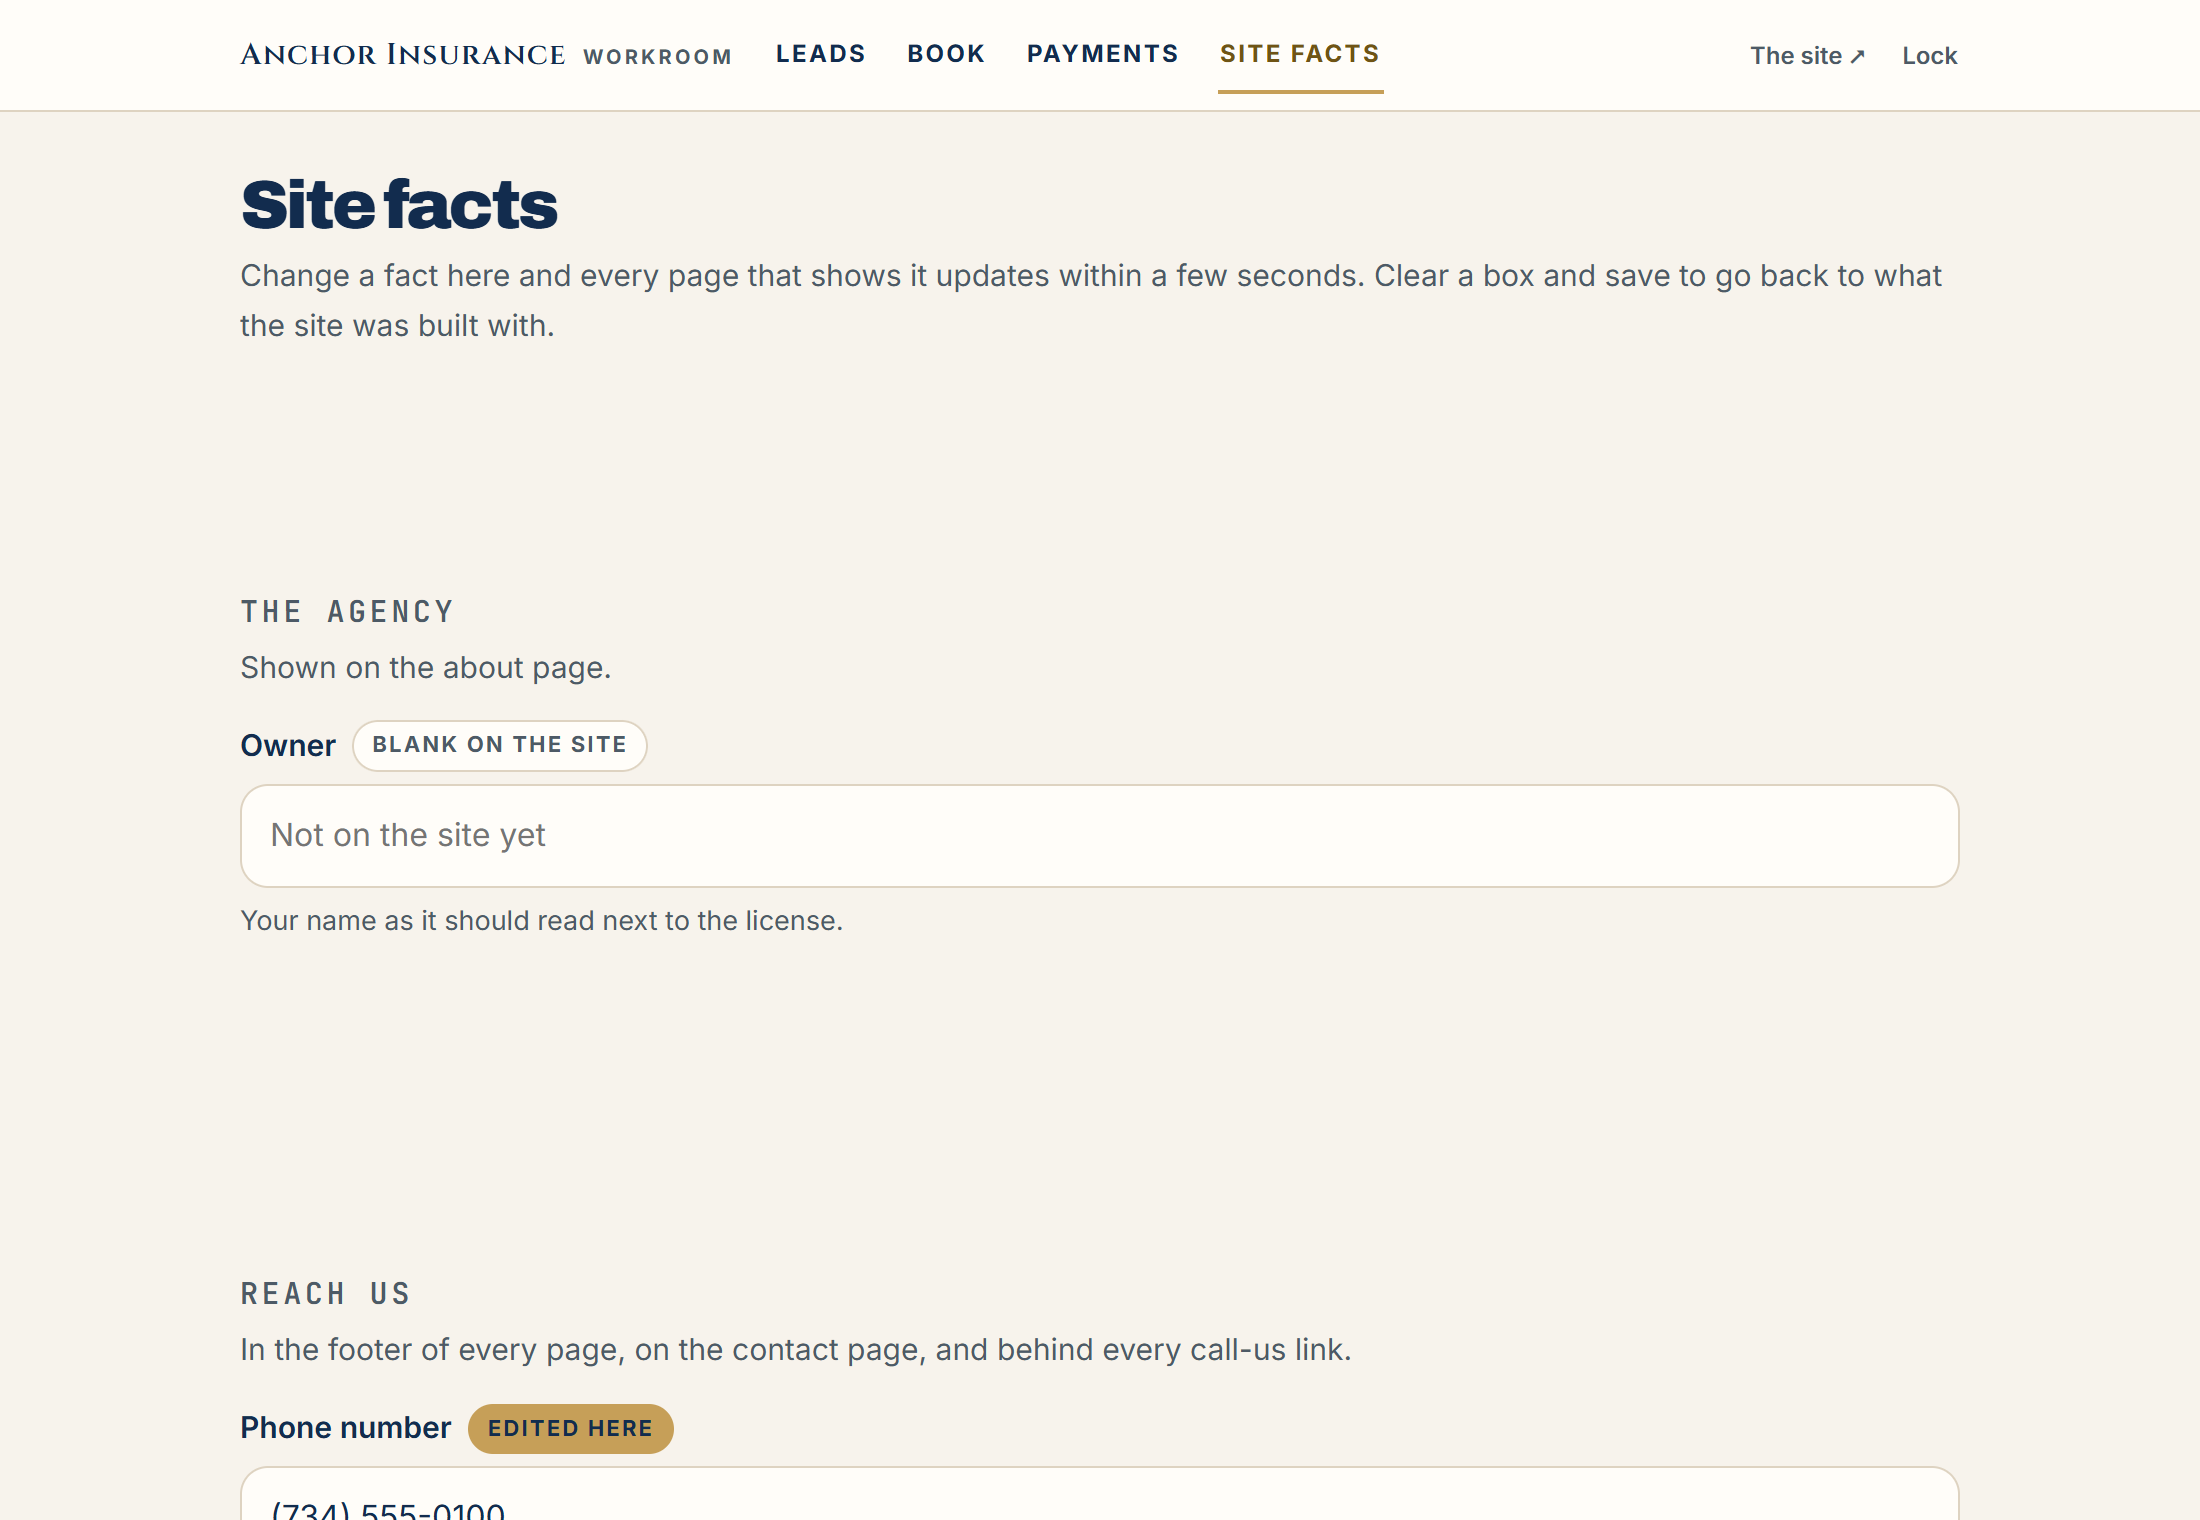
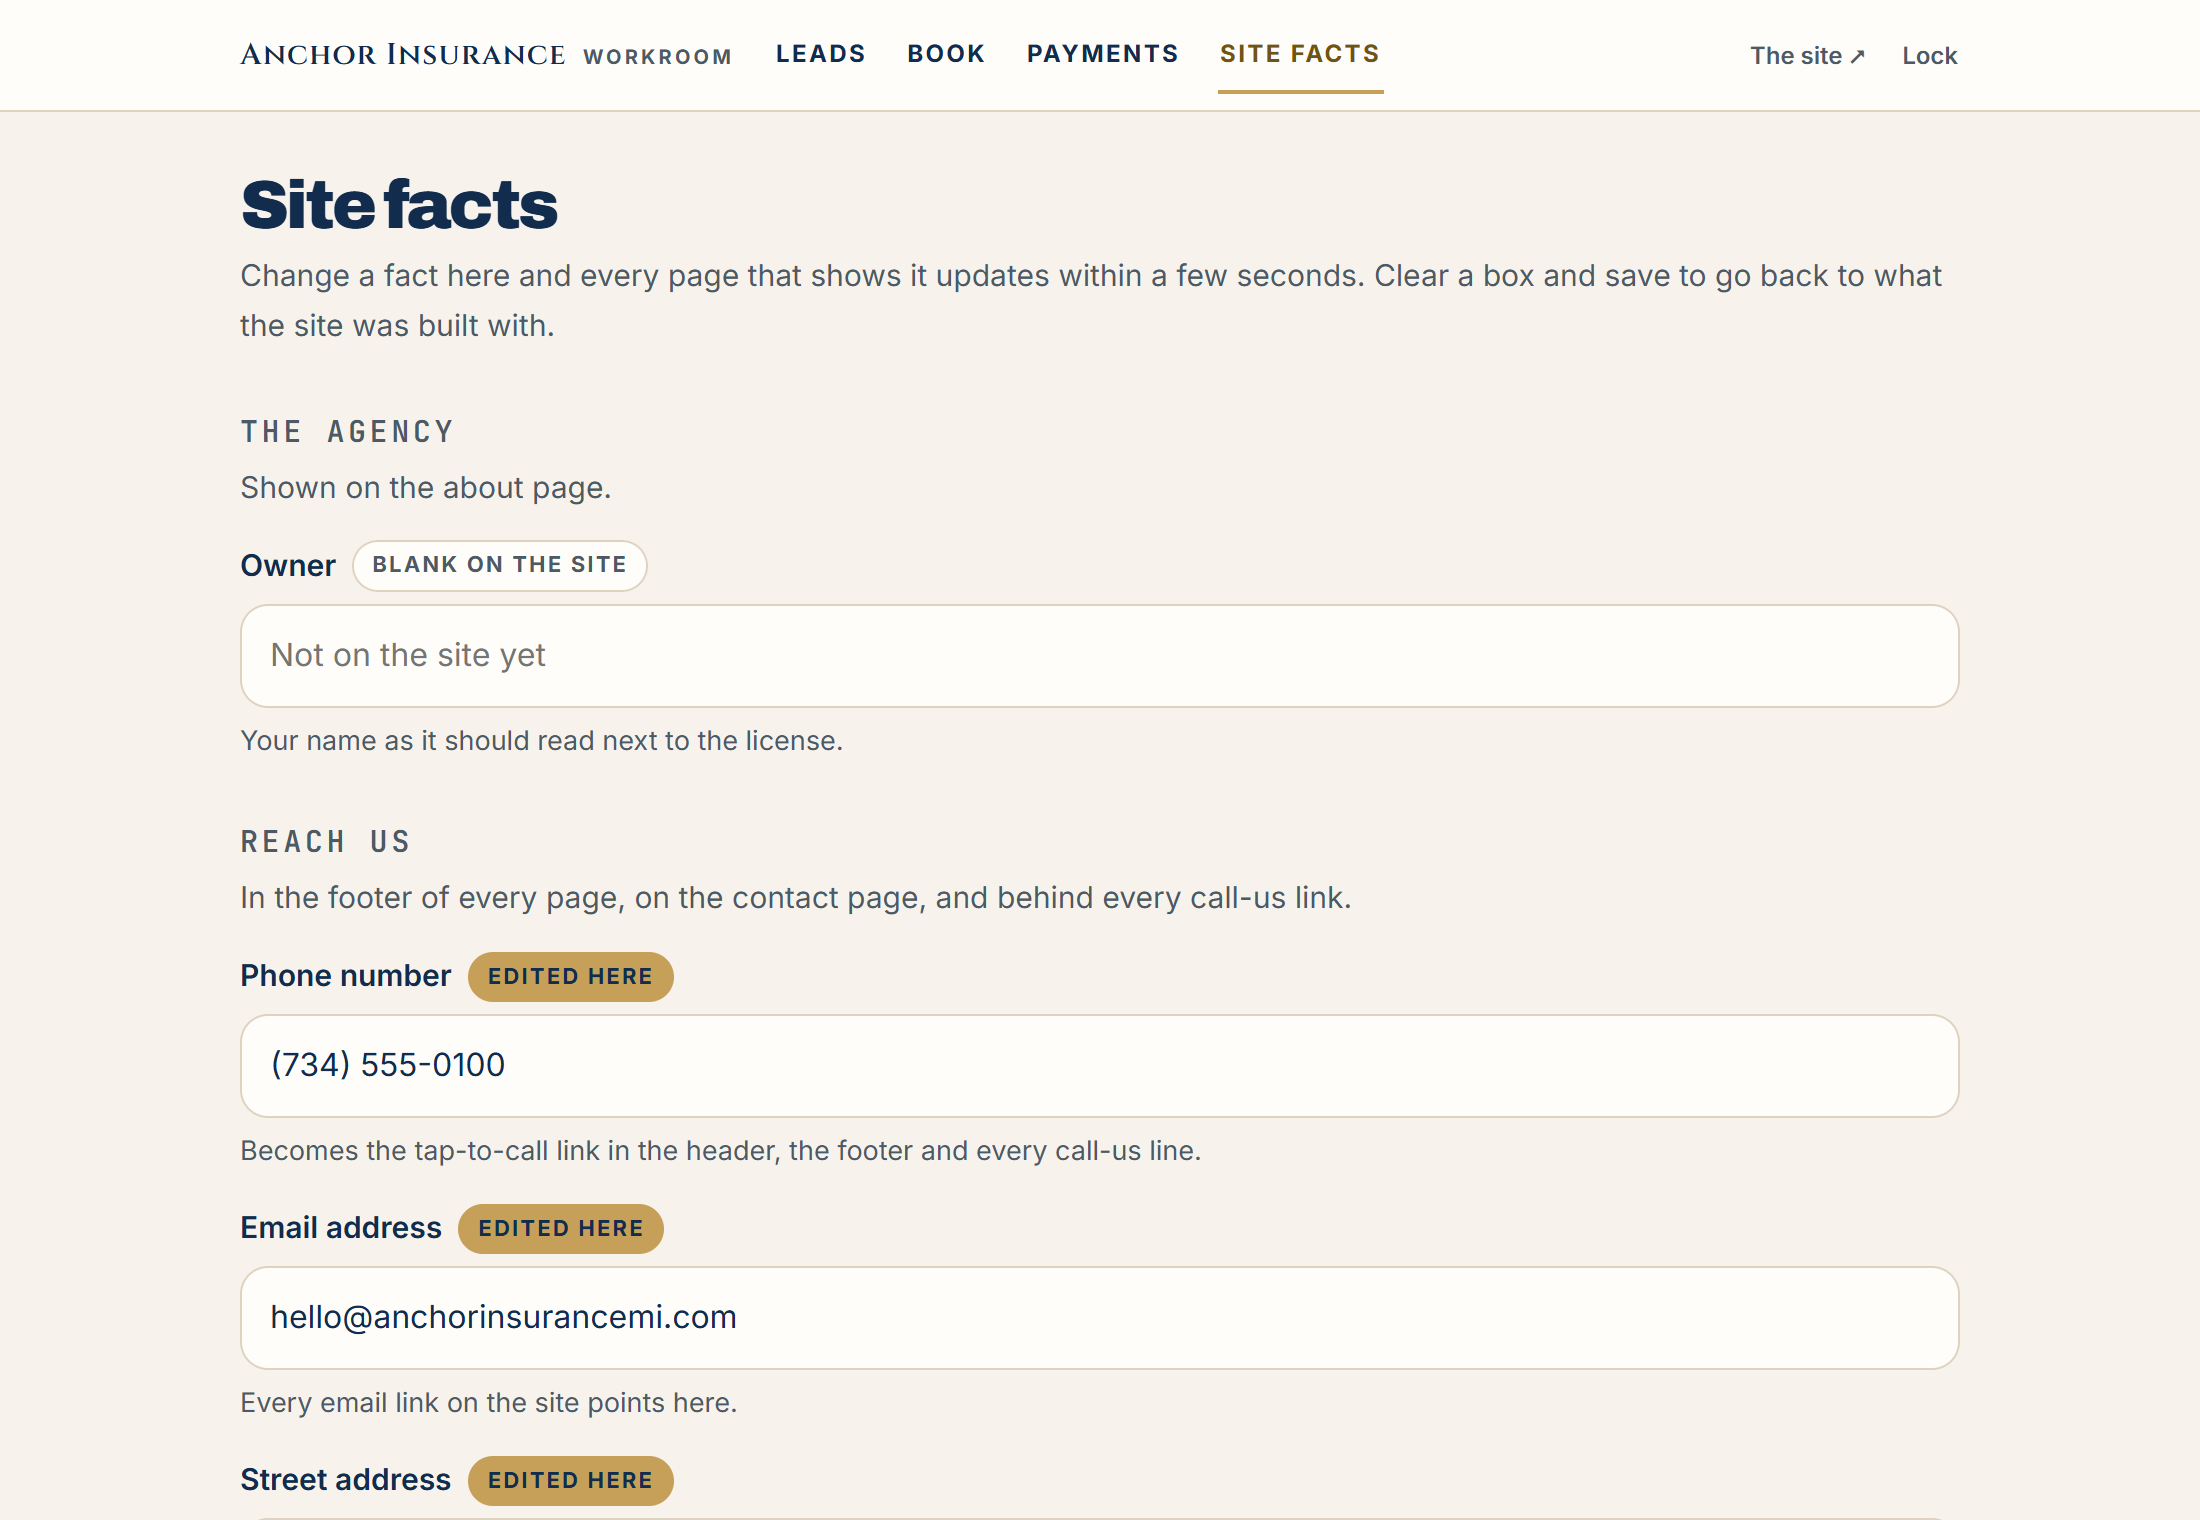
The workroom stops inheriting the marketing section padding; facts screenshot re-rendered

diff --git a/app/workroom/layout.tsx b/app/workroom/layout.tsx
@@ -38,6 +38,10 @@ export default function WorkroomLayout({ children }: { children: React.ReactNode
 
       <style>{`
         .wr-main { padding: 30px 0 90px; background: var(--paper); min-height: 70vh; }
+        /* The customer stylesheet pads every <section> for the marketing pages;
+           the facts screen groups its fields in sections and inherited a band of
+           empty space between each group (visible in the agreement's screenshot). */
+        .wr-main section { padding: 0; margin: 0; }
         .wr-wrap { max-width: 900px; margin: 0 auto; padding: 0 20px; }
 
         /* ── chrome ── */
